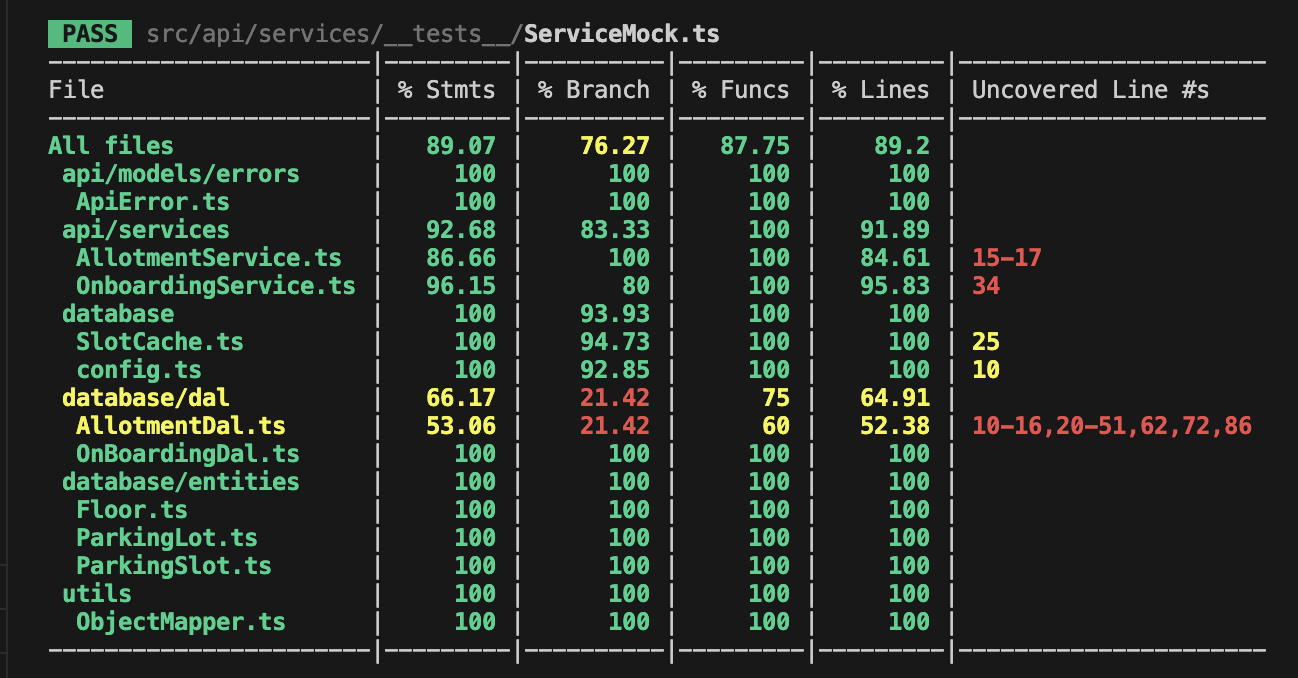
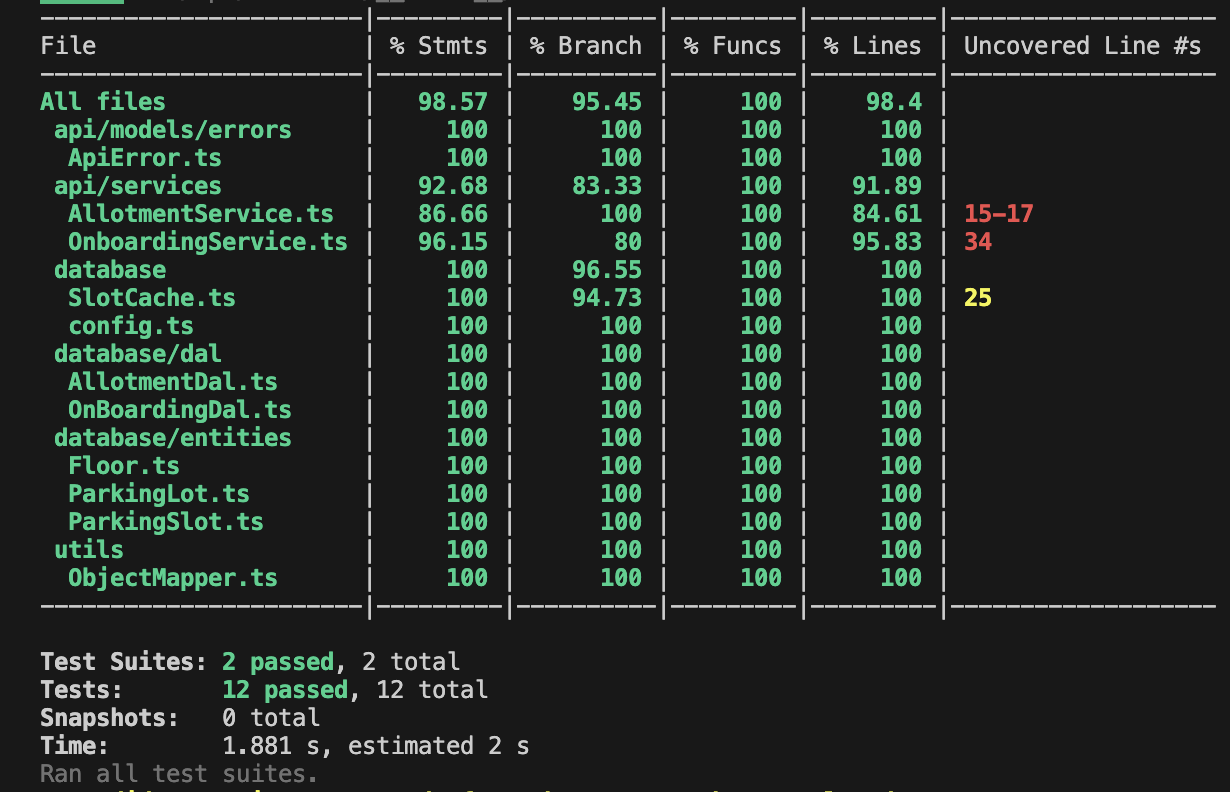
update test coverage report

Changed region(s): [[0.0309, 0.0, 0.9886, 0.9912], [0.6179, 0.9292, 0.6488, 0.9602]]

diff --git a/pa-server/src/database/dal/AllotmentDal.ts b/pa-server/src/database/dal/AllotmentDal.ts
@@ -6,52 +6,6 @@ import Floor from "../entities/Floor"
 
 export class AllotmentDal {
 
-    updateSlotWithVehicleNumber = async (slotId: number, vehicleNumber: string): Promise<number> => {
-        let updated = await ParkingSlot.update({ vehicleNumber: vehicleNumber }, {
-            where: { id: slotId }
-        })
-        if (updated.length > 0) {
-            return updated[0]
-        }
-        return -1
-    }
-
-    allotSlot = async (lotId: number, size: number, verhicleNumber: string): Promise<AllotmentResponse> => {
-        try {
-            const result = await sequelizeConnection.transaction(async (t) => {
-                //Need to use ORM here, but due to time constraint wrote a query directly
-                let slot = await sequelizeConnection.query(`
-            SELECT ps.id as "slotId", "FloorId" as "floorId", f.name as "floorName", ps.name as "slotName", f.level as "level"
-            FROM "ParkingSlots" ps 
-            JOIN "Floors" f 
-            ON ps."FloorId" = f.id 
-            AND ps."vehicleNumber" IS NULL 
-            WHERE f."ParkingLotId" = ${lotId}
-            AND ps.size >= ${size}
-            ORDER BY ps.size ASC LIMIT 1`, { transaction: t })
-
-                if (slot.length > 0 && slot[0].length > 0) {
-                    let slotResponse = slot[0][0] as AllotmentResponse
-                    if (slotResponse != null && slotResponse.slotId > 0) {
-                        let updated = await ParkingSlot.update({ vehicleNumber: verhicleNumber }, {
-                            transaction: t,
-                            where: { id: slotResponse.slotId }
-                        })
-                        if (updated.length > 0 && updated[0] > 0) {
-                            slotResponse.slot = `${slotResponse.floorId}-${slotResponse.slotId}`
-                            return slotResponse
-                        }
-                    } else {
-                        throw new ApiError(500, "All slots are full")
-                    }
-                }
-            })
-            return result
-        } catch (err) {
-            throw err
-        }
-    }
-
     updateSlotRemoveVehicleNumber = async (slotId: number, vehicleNumber: string): Promise<number> => {
         let result = await ParkingSlot.update({ vehicleNumber: vehicleNumber }, {
             where: { id: slotId },
@@ -59,7 +13,6 @@ export class AllotmentDal {
         if (result.length > 0) {
             return result[0]
         }
-        return -1
     }
 
     releaseSlotVehicleNumber = async (slotId: number): Promise<number> => {
@@ -69,7 +22,6 @@ export class AllotmentDal {
         if (result.length > 0) {
             return result[0]
         }
-        return -1
     }
     getParkingLotsByRegistrationId = async (lotId: number): Promise<AllotmentResponse[]> => {
         let res = await sequelizeConnection.query(`
@@ -83,7 +35,6 @@ export class AllotmentDal {
         if (res.length > 0) {
             return res[0] as AllotmentResponse[]
         }
-        return null
     }
 
     getSlotById = async (slotId: number): Promise<any> => {

diff --git a/pa-server/src/database/config.ts b/pa-server/src/database/config.ts
@@ -5,9 +5,7 @@ const dbUser = process.env.PG_USERNAME as string || "admin"
 const dbPassword = process.env.PG_PASSWORD || "StrongPass"
 const dbHost = process.env.PG_HOST || "localhost"
 const dbPort = process.env.PG_PORT as unknown as number || 5432
-const logging = process.env.PG_LOGGING as unknown as boolean || true
 const environment = process.env.env || "dev"
-const testStorage = environment === "test" ? ":memory:" : null
 
 console.log(`Using environment: ${environment}`)
 
